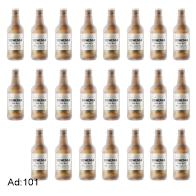
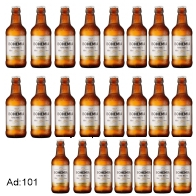
atualizações
Atualizações no banner e na imagem da Bohemia pack 23

diff --git a/destilados.html b/destilados.html
@@ -52,10 +52,10 @@
             <!-- Slides -->
             <div class="carousel-inner">
                 <div class="carousel-item active" data-bs-interval="5000">
-                    <img src="img/propaganda/fundo1.jpg" class="d-block w-100 img-fluid d-none d-md-block" alt="Slide 1"><!--Grande-->
-                    <img src="img/propaganda/fundo1.jpg" class="d-block w-100 img-fluid d-block d-md-none" alt="Slide 1"><!--pequeno-->
+                    <img src="img/propaganda/mimi_bebidas_banner_grande2.jpg" class="d-block w-100 img-fluid d-none d-md-block" alt="Slide 1"><!--Grande-->
+                    <img src="img/propaganda/mimi_bebidas_banner_pq2.jpg" class="d-block w-100 img-fluid d-block d-md-none" alt="Slide 1"><!--pequeno-->
                     <div class="carousel-caption d-block d-md-block">
-                        <a class="btn btn-warning btn-sm btn-bgi" href="#" role="button">Saiba Mais</a>
+                        <!--<a class="btn btn-warning btn-sm btn-bgi" href="#" role="button">Saiba Mais</a>-->
                     </div>
                 </div>
                 <div class="carousel-item" data-bs-interval="5000">

diff --git a/variedades.html b/variedades.html
@@ -52,10 +52,10 @@
             <!-- Slides -->
             <div class="carousel-inner">
                 <div class="carousel-item active" data-bs-interval="5000">
-                    <img src="img/propaganda/fundo1.jpg" class="d-block w-100 img-fluid d-none d-md-block" alt="Slide 1"><!--Grande-->
-                    <img src="img/propaganda/fundo1.jpg" class="d-block w-100 img-fluid d-block d-md-none" alt="Slide 1"><!--pequeno-->
+                    <img src="img/propaganda/mimi_bebidas_banner_grande2.jpg" class="d-block w-100 img-fluid d-none d-md-block" alt="Slide 1"><!--Grande-->
+                    <img src="img/propaganda/mimi_bebidas_banner_pq2.jpg" class="d-block w-100 img-fluid d-block d-md-none" alt="Slide 1"><!--pequeno-->
                     <div class="carousel-caption d-block d-md-block">
-                        <a class="btn btn-warning btn-sm btn-bgi" href="#" role="button">Saiba Mais</a>
+                        <!--<a class="btn btn-warning btn-sm btn-bgi" href="#" role="button">Saiba Mais</a>-->
                     </div>
                 </div>
                 <div class="carousel-item" data-bs-interval="5000">

diff --git a/index.html b/index.html
@@ -66,10 +66,10 @@
                     </div>
                 </div>
                 <div class="carousel-item">
-                    <img src="img/propaganda/fundo3.jpg" class="d-block w-100 img-fluid d-none d-md-block" alt="Slide 3"><!--Grande-->
-                    <img src="img/propaganda/640-426.6.jpg" class="d-block w-100 img-fluid d-block d-md-none" alt="Slide 3"><!--pequeno-->
+                    <img src="img/propaganda/mimi_bebidas_banner_grande2.jpg" class="d-block w-100 img-fluid d-none d-md-block" alt="Slide 3"><!--Grande-->
+                    <img src="img/propaganda/mimi_bebidas_banner_pq2.jpg" class="d-block w-100 img-fluid d-block d-md-none" alt="Slide 3"><!--pequeno-->
                     <div class="carousel-caption d-block d-md-block">
-                        <a class="btn btn-warning btn-sm" href="#" role="button">Saiba Mais</a>
+                        <!--<a class="btn btn-warning btn-sm" href="#" role="button">Saiba Mais</a>-->
                     </div>
                 </div>
             </div>

diff --git a/cervejas.html b/cervejas.html
@@ -66,10 +66,10 @@
                     </div>
                 </div>
                 <div class="carousel-item">
-                    <img src="img/propaganda/fundo3.jpg" class="d-block w-100 img-fluid d-none d-md-block" alt="Slide 1"><!--Grande-->
-                    <img src="img/propaganda/fundo3.jpg" class="d-block w-100 img-fluid d-block d-md-none" alt="Slide 1"><!--pequeno-->
+                    <img src="img/propaganda/mimi_bebidas_banner_grande2.jpg" class="d-block w-100 img-fluid d-none d-md-block" alt="Slide 1"><!--Grande-->
+                    <img src="img/propaganda/mimi_bebidas_banner_pq2.jpg" class="d-block w-100 img-fluid d-block d-md-none" alt="Slide 1"><!--pequeno-->
                     <div class="carousel-caption d-block d-md-block">
-                        <a class="btn btn-warning btn-sm" href="#" role="button">Saiba Mais</a>
+                        <!--<a class="btn btn-warning btn-sm" href="#" role="button">Saiba Mais</a>-->
                     </div>
                 </div>
             </div>

diff --git a/refrigerantes.html b/refrigerantes.html
@@ -66,10 +66,10 @@
                     </div>
                 </div>
                 <div class="carousel-item">
-                    <img src="img/propaganda/fundo3.jpg" class="d-block w-100 img-fluid d-none d-md-block" alt="Slide 1"><!--Grande-->
-                    <img src="img/propaganda/fundo3.jpg" class="d-block w-100 img-fluid d-block d-md-none" alt="Slide 1"><!--pequeno-->
+                    <img src="img/propaganda/mimi_bebidas_banner_grande2.jpg" class="d-block w-100 img-fluid d-none d-md-block" alt="Slide 1"><!--Grande-->
+                    <img src="img/propaganda/mimi_bebidas_banner_pq2.jpg" class="d-block w-100 img-fluid d-block d-md-none" alt="Slide 1"><!--pequeno-->
                     <div class="carousel-caption d-block d-md-block">
-                        <a class="btn btn-warning btn-sm" href="#" role="button">Saiba Mais</a>
+                        <!--<a class="btn btn-warning btn-sm" href="#" role="button">Saiba Mais</a>-->
                     </div>
                 </div>
             </div>
